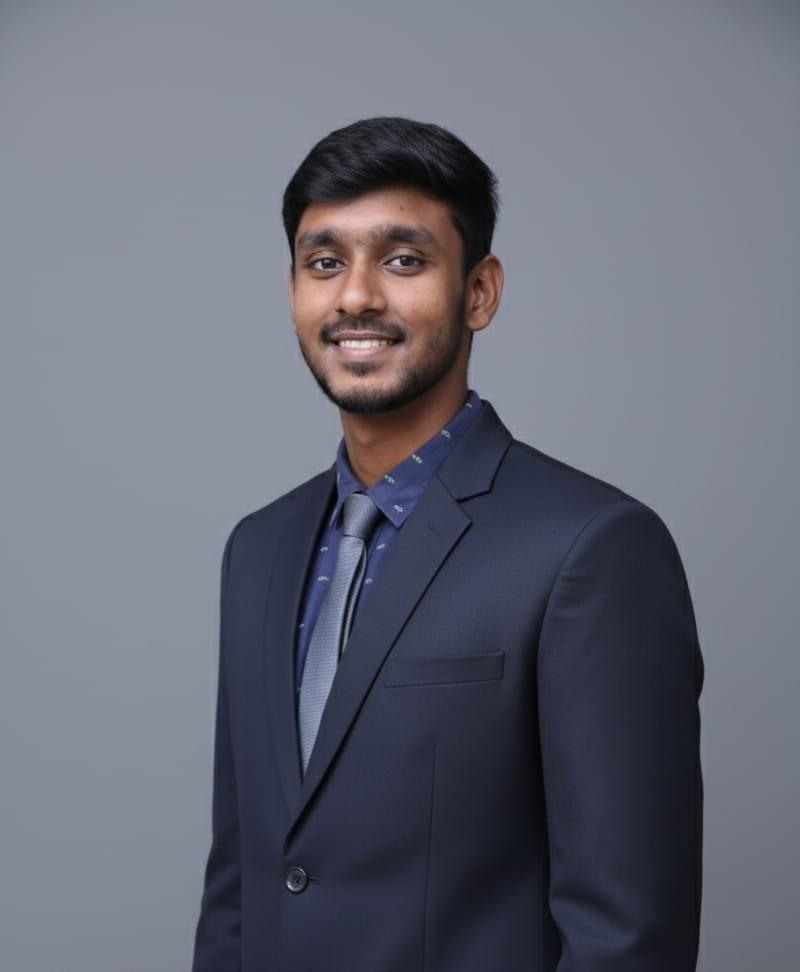
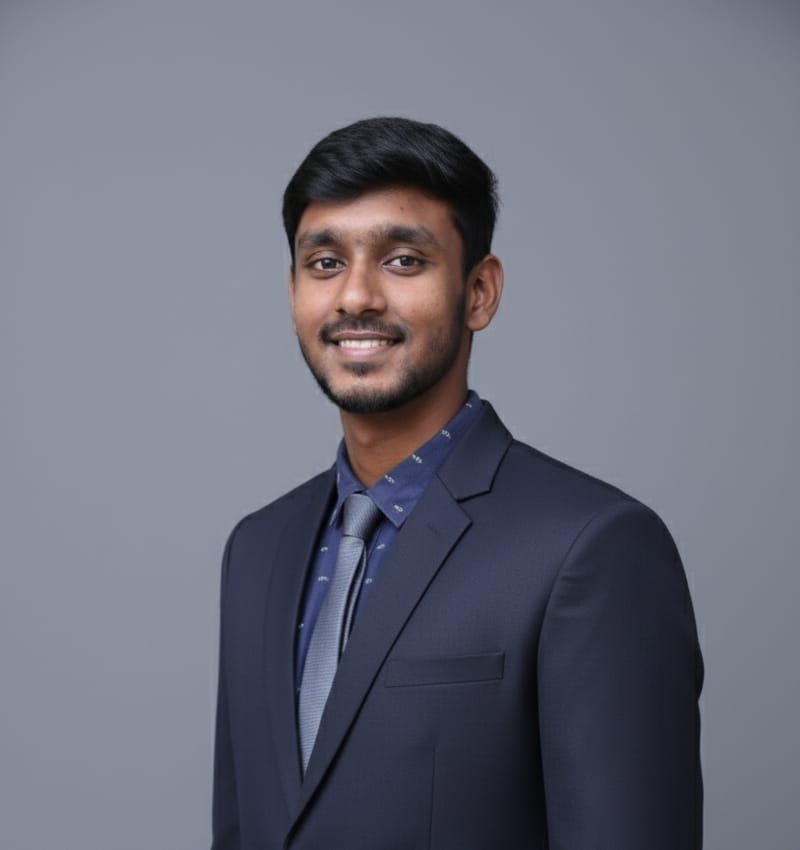
Updated latests photo

diff --git a/index.html b/index.html
@@ -226,12 +226,6 @@
                 <div class="team-member" data-aos="fade-up" data-aos-delay="100">
                     <div class="team-image">
                         <img src="images/team/Manmohan J.jpeg" alt="Manmohan J" onerror="this.src='https://images.unsplash.com/photo-1507003211169-0a1dd7228f2d?ixlib=rb-4.0.3&ixid=MnwxMjA3fDB8MHxwaG90by1wYWdlfHx8fGVufDB8fHx8&auto=format&fit=crop&w=300&q=80'">
-                        <div class="social-links">
-                            <a href="#" class="social-link"><i class="fab fa-facebook-f"></i></a>
-                            <a href="#" class="social-link"><i class="fab fa-twitter"></i></a>
-                            <a href="#" class="social-link"><i class="fab fa-instagram"></i></a>
-                            <a href="#" class="social-link"><i class="fab fa-linkedin-in"></i></a>
-                        </div>
                     </div>
                     <div class="team-info">
                         <h3>Manmohan J</h3>
@@ -243,12 +237,6 @@
                 <div class="team-member" data-aos="fade-up" data-aos-delay="150">
                     <div class="team-image">
                         <img src="images/team/john praison.jpeg" alt="John Praison" onerror="this.src='https://images.unsplash.com/photo-1506794778202-cad84cf45f1d?ixlib=rb-4.0.3&ixid=MnwxMjA3fDB8MHxwaG90by1wYWdlfHx8fGVufDB8fHx8&auto=format&fit=crop&w=300&q=80'">
-                        <div class="social-links">
-                            <a href="#" class="social-link"><i class="fab fa-facebook-f"></i></a>
-                            <a href="#" class="social-link"><i class="fab fa-twitter"></i></a>
-                            <a href="#" class="social-link"><i class="fab fa-instagram"></i></a>
-                            <a href="#" class="social-link"><i class="fab fa-linkedin-in"></i></a>
-                        </div>
                     </div>
                     <div class="team-info">
                         <h3>John Praison</h3>
@@ -260,12 +248,6 @@
                 <div class="team-member" data-aos="fade-up" data-aos-delay="200">
                     <div class="team-image">
                         <img src="images/team/Abhishek DuraiRaj.jpeg" alt="Abhishek" onerror="this.src='https://images.unsplash.com/photo-1534528741775-53994a69daeb?ixlib=rb-4.0.3&ixid=MnwxMjA3fDB8MHxwaG90by1wYWdlfHx8fGVufDB8fHx8&auto=format&fit=crop&w=300&q=80'">
-                        <div class="social-links">
-                            <a href="#" class="social-link"><i class="fab fa-facebook-f"></i></a>
-                            <a href="#" class="social-link"><i class="fab fa-twitter"></i></a>
-                            <a href="#" class="social-link"><i class="fab fa-instagram"></i></a>
-                            <a href="#" class="social-link"><i class="fab fa-linkedin-in"></i></a>
-                        </div>
                     </div>
                     <div class="team-info">
                         <h3>Abhishek</h3>
@@ -277,12 +259,6 @@
                 <div class="team-member" data-aos="fade-up" data-aos-delay="250">
                     <div class="team-image">
                         <img src="images/team/Aarathana Magdalene.jpeg" alt="Arathana" onerror="this.src='https://images.unsplash.com/photo-1438761681033-6461ffad8d80?ixlib=rb-4.0.3&ixid=MnwxMjA3fDB8MHxwaG90by1wYWdlfHx8fGVufDB8fHx8&auto=format&fit=crop&w=300&q=80'">
-                        <div class="social-links">
-                            <a href="#" class="social-link"><i class="fab fa-facebook-f"></i></a>
-                            <a href="#" class="social-link"><i class="fab fa-twitter"></i></a>
-                            <a href="#" class="social-link"><i class="fab fa-instagram"></i></a>
-                            <a href="#" class="social-link"><i class="fab fa-linkedin-in"></i></a>
-                        </div>
                     </div>
                     <div class="team-info">
                         <h3>Arathana</h3>
@@ -321,7 +297,7 @@
                         </div>
                         <div class="info-text">
                             <h4>Email</h4>
-                            <p>contact@elshadaiproductions.in</p>
+                            <p>elshadaiproductionss@gmail.com</p>
                         </div>
                     </div>
                     
@@ -331,15 +307,12 @@
                         </div>
                         <div class="info-text">
                             <h4>Phone</h4>
-                            <p>+91 XXXXXXXXXX</p>
+                            <p>+91 8667649590</p>
                         </div>
                     </div>
                     
                     <div class="social-links">
-                        <a href="#" class="social-icon"><i class="fab fa-facebook-f"></i></a>
                         <a href="#" class="social-icon"><i class="fab fa-instagram"></i></a>
-                        <a href="#" class="social-icon"><i class="fab fa-youtube"></i></a>
-                        <a href="#" class="social-icon"><i class="fab fa-spotify"></i></a>
                     </div>
                 </div>
                 
